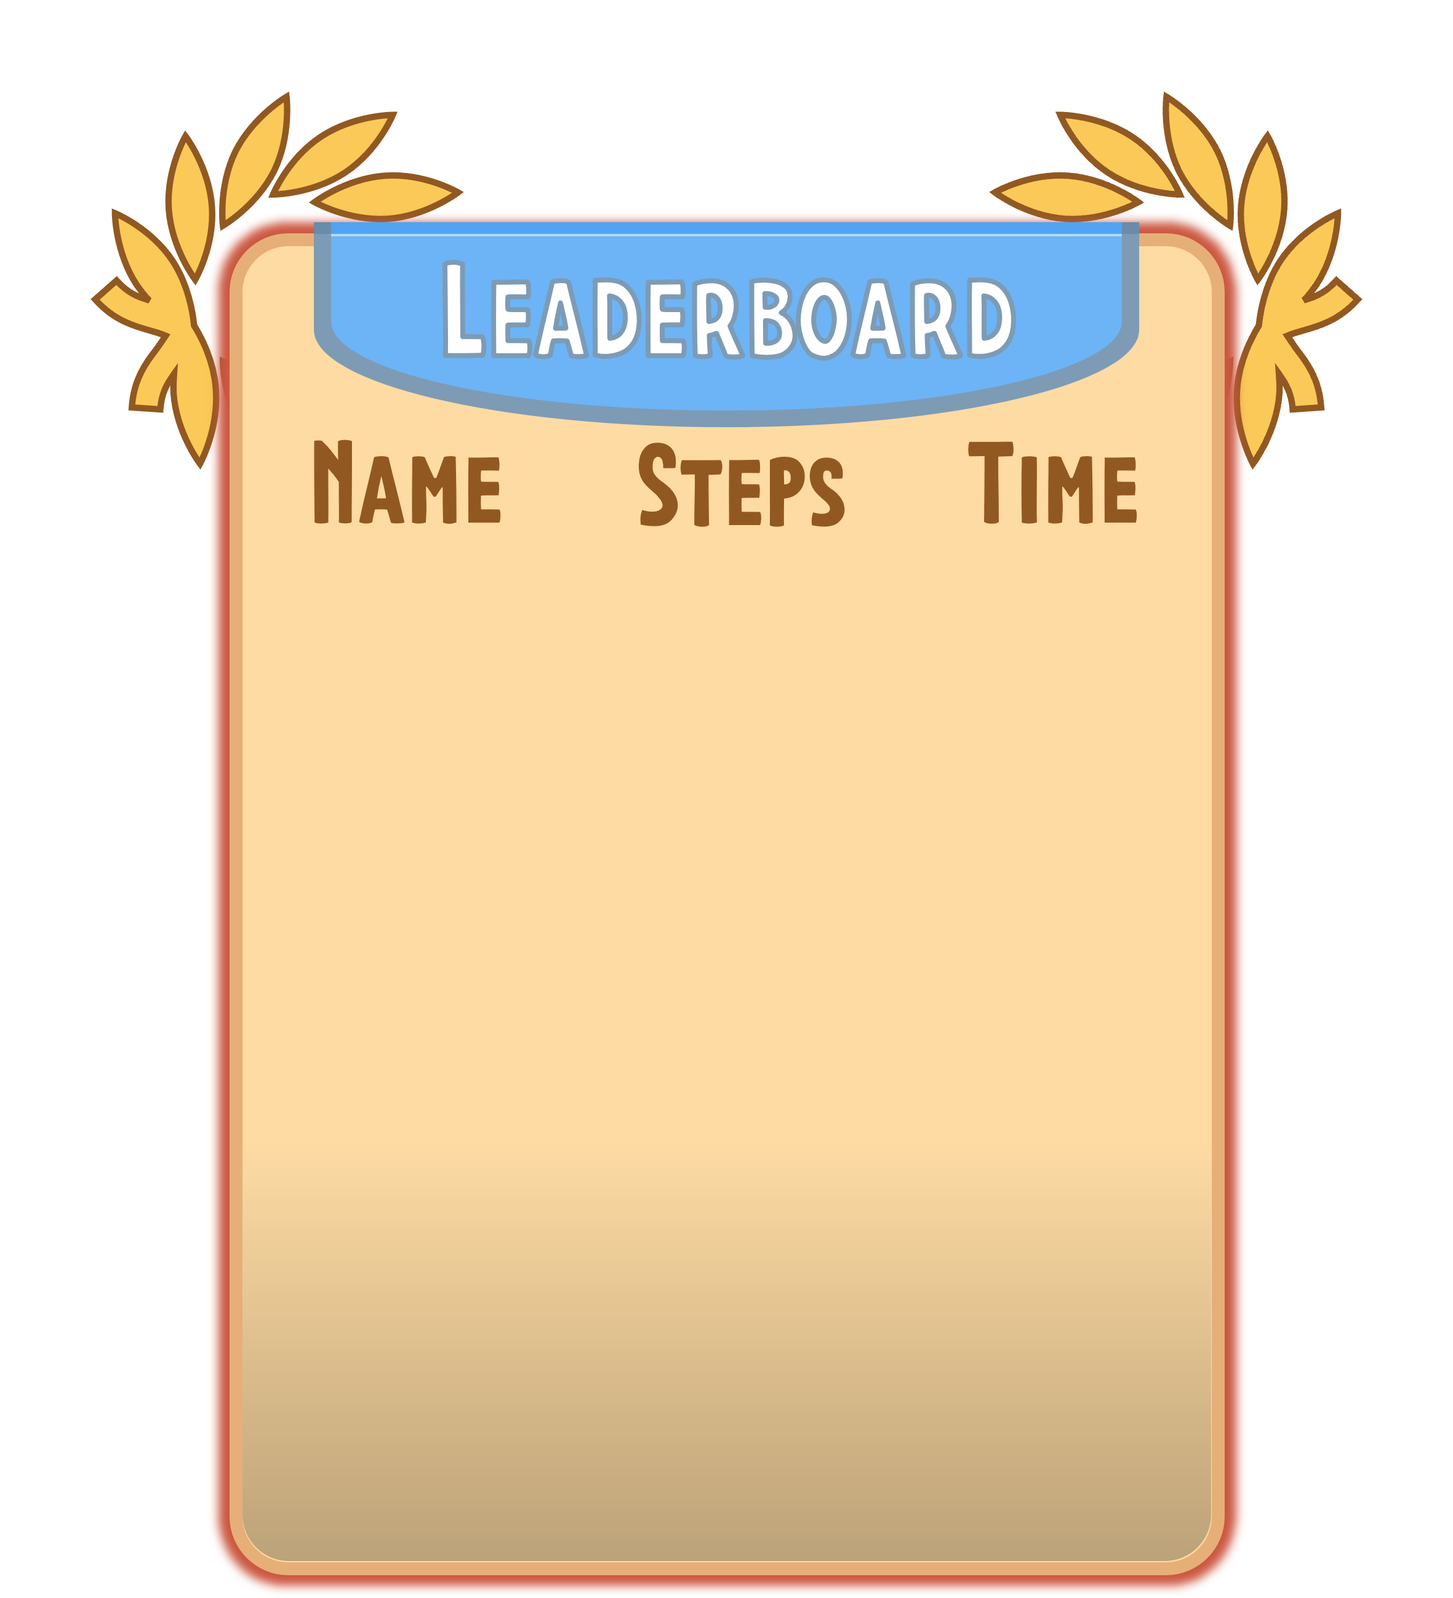
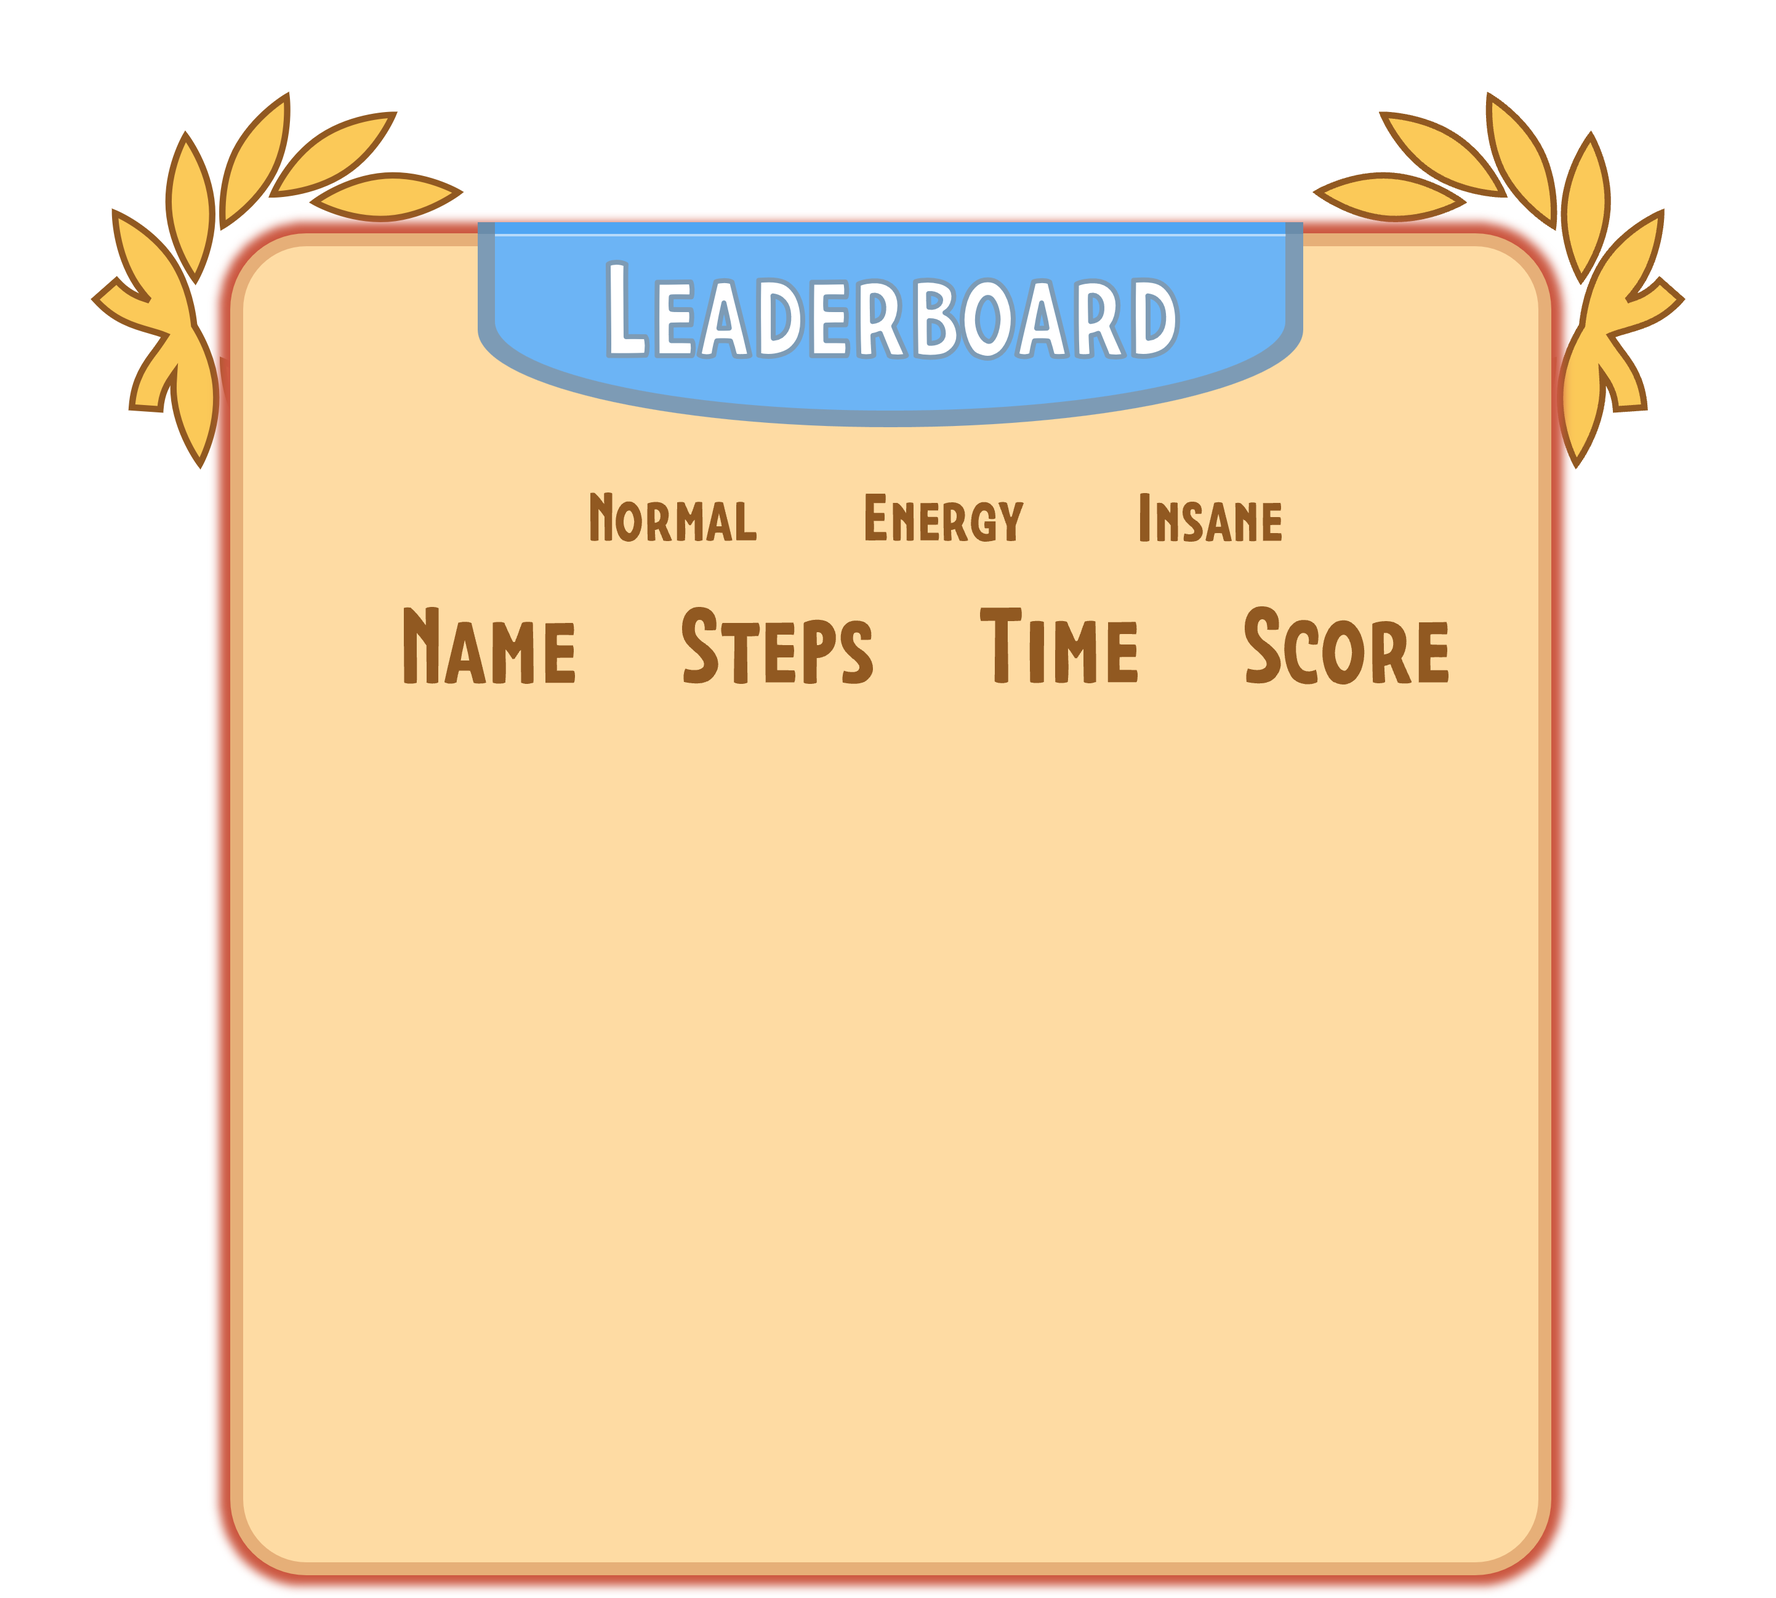
feat: leaderboard base on mode, rank

diff --git a/visualize.py b/visualize.py
@@ -42,7 +42,8 @@ class GameScreen:
         self.full_save = False
         self.difficulty = ""
         self.login_signin_state = "log in"
-        self.leaderboard_state = "easy"
+        self.leaderboard_difficulty = "easy"
+        self.leaderboard_mode = "normal"
         self.new_game_state = "choose difficulty"
         self.spawning = ""
         self.energy_mode = False
@@ -118,6 +119,9 @@ class GameScreen:
         leaderboard_easy_img = create_img(self.image_source, "leaderboard_easy")
         leaderboard_medium_img = create_img(self.image_source, "leaderboard_medium")
         leaderboard_hard_img = create_img(self.image_source, "leaderboard_hard")
+        trophy_gold_img = create_img(self.image_source, 'trophy_gold')
+        trophy_silver_img = create_img(self.image_source, 'trophy_silver')
+        trophy_bronze_img = create_img(self.image_source, 'trophy_bronze')
 
         """ NEW GAME """
         button_yes_img = create_img(self.image_source, "button_yes")
@@ -395,28 +399,33 @@ class GameScreen:
         )
         leaderbboard_width = self.leaderboard.modified_width
         leaderbboard_height = self.leaderboard.modified_height
+        leaderbboard_x_coord = self.leaderboard.x_coord
+        leaderbboard_y_coord = self.leaderboard.y_coord
         self.leaderboard_easy = graphic.Graphic(
-            HALF_SCREEN_WIDTH + leaderbboard_width * 0.367,
+            HALF_SCREEN_WIDTH + leaderbboard_width * 0.39,
             HALF_SCREEN_HEIGHT - leaderbboard_height * 0.12,
             leaderboard_easy_img,
             0.3,
         )
         self.leaderboard_medium = graphic.Graphic(
-            HALF_SCREEN_WIDTH + leaderbboard_width * 0.367,
+            HALF_SCREEN_WIDTH + leaderbboard_width * 0.39,
             HALF_SCREEN_HEIGHT + leaderbboard_height * 0.1,
             leaderboard_medium_img,
             0.3,
         )
         self.leaderboard_hard = graphic.Graphic(
-            HALF_SCREEN_WIDTH + leaderbboard_width * 0.367,
+            HALF_SCREEN_WIDTH + leaderbboard_width * 0.39,
             HALF_SCREEN_HEIGHT + leaderbboard_height * 0.32,
             leaderboard_hard_img,
             0.3,
         )
+        self.trophy_gold = graphic.Graphic(self.leaderboard.x_coord - self.leaderboard.modified_width * 0.32, self.leaderboard.y_coord - self.leaderboard.modified_height * 0.025 + self.background_leaderboard.modified_height * 0.07 * 0, trophy_gold_img, 0.3)
+        self.trophy_silver = graphic.Graphic(self.leaderboard.x_coord - self.leaderboard.modified_width * 0.32, self.leaderboard.y_coord - self.leaderboard.modified_height * 0.025 + self.background_leaderboard.modified_height * 0.07 * 1, trophy_silver_img, 0.3)
+        self.trophy_bronze = graphic.Graphic(self.leaderboard.x_coord - self.leaderboard.modified_width * 0.32, self.leaderboard.y_coord - self.leaderboard.modified_height * 0.025+ self.background_leaderboard.modified_height * 0.07 * 2, trophy_bronze_img, 0.3)
 
         # create buttons
         self.button_leaderboard_easy = button.Button(
-            HALF_SCREEN_WIDTH + leaderbboard_width * 0.367,
+            HALF_SCREEN_WIDTH + leaderbboard_width * 0.39,
             HALF_SCREEN_HEIGHT - leaderbboard_height * 0.12,
             button_leaderboard_easy_img,
             self.click_sound_source,
@@ -424,7 +433,7 @@ class GameScreen:
             0.31,
         )
         self.button_leaderboard_medium = button.Button(
-            HALF_SCREEN_WIDTH + leaderbboard_width * 0.367,
+            HALF_SCREEN_WIDTH + leaderbboard_width * 0.39,
             HALF_SCREEN_HEIGHT + leaderbboard_height * 0.1,
             button_leaderboard_medium_img,
             self.click_sound_source,
@@ -432,13 +441,23 @@ class GameScreen:
             0.31,
         )
         self.button_leaderboard_hard = button.Button(
-            HALF_SCREEN_WIDTH + leaderbboard_width * 0.367,
+            HALF_SCREEN_WIDTH + leaderbboard_width * 0.39,
             HALF_SCREEN_HEIGHT + leaderbboard_height * 0.32,
             button_leaderboard_hard_img,
             self.click_sound_source,
             0.3,
             0.31,
         )
+        self.button_uncheck_normal = button.Button(
+            leaderbboard_x_coord - leaderbboard_width * 0.2, 
+            leaderbboard_y_coord - leaderbboard_height * 0.173, 
+            button_uncheck_img, self.click_sound_source, 0.3, 0.3
+            )
+        self.button_uncheck_energy = button.Button(leaderbboard_x_coord - leaderbboard_width * 0.043, leaderbboard_y_coord - leaderbboard_height * 0.173, button_uncheck_img, self.click_sound_source, 0.3, 0.3)
+        self.button_uncheck_insane = button.Button(leaderbboard_x_coord + leaderbboard_width * 0.115, leaderbboard_y_coord - leaderbboard_height * 0.173, button_uncheck_img, self.click_sound_source, 0.3, 0.3)
+        self.button_check_normal = button.Button(leaderbboard_x_coord - leaderbboard_width * 0.2, leaderbboard_y_coord - leaderbboard_height * 0.173, button_check_img, self.click_sound_source, 0.3, 0.3)
+        self.button_check_energy = button.Button(leaderbboard_x_coord - leaderbboard_width * 0.043, leaderbboard_y_coord - leaderbboard_height * 0.173, button_check_img, self.click_sound_source, 0.3, 0.3)
+        self.button_check_insane = button.Button(leaderbboard_x_coord + leaderbboard_width * 0.115, leaderbboard_y_coord - leaderbboard_height * 0.173, button_check_img, self.click_sound_source, 0.3, 0.3)
 
         """ NEW GAME"""
         # create graphic
@@ -856,164 +875,101 @@ class GameScreen:
             self.username_signin_textbox.text = ""
             self.password_login_textbox.text = ""
             self.password_signin_textbox.text = ""
-
+    
     def draw_leaderboard(self, event):
         pos = pygame.mouse.get_pos()
 
         self.background_leaderboard.draw(self.screen)
-        if self.leaderboard_state == "easy":
+        
+        if self.leaderboard_difficulty == "easy":
             if self.button_leaderboard_medium.draw(self.screen, pos, event, self.sound):
-                self.leaderboard_state = "medium"
+                self.leaderboard_difficulty = "medium"
             if self.button_leaderboard_hard.draw(self.screen, pos, event, self.sound):
-                self.leaderboard_state = "hard"
+                self.leaderboard_difficulty = "hard"
             self.leaderboard.draw(self.screen)
             self.leaderboard_easy.draw(self.screen)
-            records = data.leaderboard(mode="EASY")
-            for i in range(min(len(records), DISPLAY.RECORD_LIMIT)):
-                username = self.font.render(records[i][0], True, COLOR.BLACK)
-                time = self.font.render(records[i][1], True, COLOR.BLACK)
-                steps = self.font.render(str(records[i][2]), True, COLOR.BLACK)
-                self.screen.blit(
-                    username,
-                    (
-                        (
-                            self.leaderboard.x_coord
-                            - username.get_rect().width * 0.5
-                            - self.leaderboard.modified_width * 0.22,
-                            self.leaderboard.y_coord
-                            - self.leaderboard.modified_height * 0.13
-                            + self.background_leaderboard.modified_height * 0.07 * i,
-                        )
-                    ),
-                )
-                self.screen.blit(
-                    steps,
-                    (
-                        (
-                            self.leaderboard.x_coord
-                            + self.leaderboard.modified_width * 0.01,
-                            self.leaderboard.y_coord
-                            - self.leaderboard.modified_height * 0.13
-                            + self.background_leaderboard.modified_height * 0.07 * i,
-                        )
-                    ),
-                )
-                self.screen.blit(
-                    time,
-                    (
-                        (
-                            self.leaderboard.x_coord
-                            + self.leaderboard.modified_width * 0.2,
-                            self.leaderboard.y_coord
-                            - self.leaderboard.modified_height * 0.13
-                            + self.background_leaderboard.modified_height * 0.07 * i,
-                        )
-                    ),
-                )
-
-        if self.leaderboard_state == "medium":
+        if self.leaderboard_difficulty == "medium":
             if self.button_leaderboard_easy.draw(self.screen, pos, event, self.sound):
-                self.leaderboard_state = "easy"
+                self.leaderboard_difficulty = "easy"
             if self.button_leaderboard_hard.draw(self.screen, pos, event, self.sound):
-                self.leaderboard_state = "hard"
+                self.leaderboard_difficulty = "hard"
             self.leaderboard.draw(self.screen)
             self.leaderboard_medium.draw(self.screen)
-            records = data.leaderboard(mode="MEDIUM")
-            for i in range(min(len(records), DISPLAY.RECORD_LIMIT)):
-                username = self.font.render(records[i][0], True, COLOR.BLACK)
-                time = self.font.render(records[i][1], True, COLOR.BLACK)
-                steps = self.font.render(str(records[i][2]), True, COLOR.BLACK)
-                self.screen.blit(
-                    username,
-                    (
-                        (
-                            self.leaderboard.x_coord
-                            - username.get_rect().width * 0.5
-                            - self.leaderboard.modified_width * 0.22,
-                            self.leaderboard.y_coord
-                            - self.leaderboard.modified_height * 0.13
-                            + self.background_leaderboard.modified_height * 0.07 * i,
-                        )
-                    ),
-                )
-                self.screen.blit(
-                    steps,
-                    (
-                        (
-                            self.leaderboard.x_coord
-                            + self.leaderboard.modified_width * 0.01,
-                            self.leaderboard.y_coord
-                            - self.leaderboard.modified_height * 0.13
-                            + self.background_leaderboard.modified_height * 0.07 * i,
-                        )
-                    ),
-                )
-                self.screen.blit(
-                    time,
-                    (
-                        (
-                            self.leaderboard.x_coord
-                            + self.leaderboard.modified_width * 0.2,
-                            self.leaderboard.y_coord
-                            - self.leaderboard.modified_height * 0.13
-                            + self.background_leaderboard.modified_height * 0.07 * i,
-                        )
-                    ),
-                )
-
-        if self.leaderboard_state == "hard":
+        if self.leaderboard_difficulty == "hard":
             if self.button_leaderboard_easy.draw(self.screen, pos, event, self.sound):
-                self.leaderboard_state = "easy"
+                self.leaderboard_difficulty = "easy"
             if self.button_leaderboard_medium.draw(self.screen, pos, event, self.sound):
-                self.leaderboard_state = "medium"
+                self.leaderboard_difficulty = "medium"
             self.leaderboard.draw(self.screen)
             self.leaderboard_hard.draw(self.screen)
-            records = data.leaderboard(mode="HARD")
-            for i in range(min(len(records), DISPLAY.RECORD_LIMIT)):
-                username = self.font.render(records[i][0], True, COLOR.BLACK)
-                time = self.font.render(records[i][1], True, COLOR.BLACK)
-                steps = self.font.render(str(records[i][2]), True, COLOR.BLACK)
-                self.screen.blit(
-                    username,
+                   
+        if self.leaderboard_mode == "normal":
+            self.button_check_normal.draw(self.screen, pos, event, self.sound)
+            if self.button_uncheck_energy.draw(self.screen, pos, event, self.sound):
+                self.leaderboard_mode = "energy"
+            if self.button_uncheck_insane.draw(self.screen, pos, event, self.sound):
+                self.leaderboard_mode = "insane"
+        if self.leaderboard_mode == "energy":
+            self.button_check_energy.draw(self.screen, pos, event, self.sound)
+            if self.button_uncheck_normal.draw(self.screen, pos, event, self.sound):
+                self.leaderboard_mode = "normal"
+            if self.button_uncheck_insane.draw(self.screen, pos, event, self.sound):
+                self.leaderboard_mode = "insane"
+        if self.leaderboard_mode == "insane":
+            self.button_check_insane.draw(self.screen, pos, event, self.sound)
+            if self.button_uncheck_normal.draw(self.screen, pos, event, self.sound):
+                self.leaderboard_mode = "normal"
+            if self.button_uncheck_energy.draw(self.screen, pos, event, self.sound):
+                self.leaderboard_mode = "energy"
+        
+                
+        records = data.leaderboard(mode=self.leaderboard_difficulty.upper())
+        for i in range(min(len(records), DISPLAY.RECORD_LIMIT)):
+            username = self.font.render(records[i][0], True, COLOR.BLACK)
+            time = self.font.render(records[i][1], True, COLOR.BLACK)
+            steps = self.font.render(str(records[i][2]), True, COLOR.BLACK)
+            self.screen.blit(
+                username,
+                (
                     (
-                        (
-                            self.leaderboard.x_coord
-                            - username.get_rect().width * 0.5
-                            - self.leaderboard.modified_width * 0.22,
-                            self.leaderboard.y_coord
-                            - self.leaderboard.modified_height * 0.13
-                            + self.background_leaderboard.modified_height * 0.07 * i,
-                        )
-                    ),
-                )
-                self.screen.blit(
-                    steps,
+                        self.leaderboard.x_coord - username.get_rect().width * 0.5 - self.leaderboard.modified_width * 0.22,
+                        self.leaderboard.y_coord - self.leaderboard.modified_height * 0.05 + self.background_leaderboard.modified_height * 0.07 * i,
+                    )
+                ),
+            )
+            self.screen.blit(
+                steps,
+                (
                     (
-                        (
-                            self.leaderboard.x_coord
-                            + self.leaderboard.modified_width * 0.01,
-                            self.leaderboard.y_coord
-                            - self.leaderboard.modified_height * 0.13
-                            + self.background_leaderboard.modified_height * 0.07 * i,
-                        )
-                    ),
-                )
-                self.screen.blit(
-                    time,
+                        self.leaderboard.x_coord - self.leaderboard.modified_width * 0.04 - steps.get_rect().width,
+                        self.leaderboard.y_coord - self.leaderboard.modified_height * 0.05 + self.background_leaderboard.modified_height * 0.07 * i,
+                    )
+                ),
+            )
+            self.screen.blit(
+                time,
+                (
                     (
-                        (
-                            self.leaderboard.x_coord
-                            + self.leaderboard.modified_width * 0.2,
-                            self.leaderboard.y_coord
-                            - self.leaderboard.modified_height * 0.13
-                            + self.background_leaderboard.modified_height * 0.07 * i,
-                        )
-                    ),
-                )
-
+                        self.leaderboard.x_coord
+                        + self.leaderboard.modified_width * 0.2,
+                        self.leaderboard.y_coord
+                        - self.leaderboard.modified_height * 0.05
+                        + self.background_leaderboard.modified_height * 0.07 * i,
+                    )
+                ),
+            )
+        ranks = len(records)
+        if ranks > 0:
+            self.trophy_gold.draw(self.screen)
+        if ranks > 1:
+            self.trophy_silver.draw(self.screen)
+        if ranks > 2:
+            self.trophy_bronze.draw(self.screen)
+        
         if self.button_back.draw(self.screen, pos, event, self.sound):
             self.game_state = "main menu"
-            self.leaderboard_state = "easy"
+            self.leaderboard_difficulty = "easy"
+            self.leaderboard_mode = "normal"
 
     def draw_new_game(self, event):
         pos = pygame.mouse.get_pos()
@@ -1147,29 +1103,6 @@ class GameScreen:
         pos = pygame.mouse.get_pos()
 
         self.background_load_game.draw(self.screen)
-        # if self.load_game_state == "easy":
-        #     self.easy_snapshot_1.draw(self.screen)
-        #     self.saveslot_easy_1.manage_save(self.screen, pos, event)
-        #     self.saveslot_easy_2.manage_save(self.screen, pos, event)
-        #     if self.button_easy_load_game.draw(self.screen, pos, event, self.sound):
-        #         self.load_game_state = "medium"
-        # if self.load_game_state == "medium":
-        #     self.saveslot_medium_1.manage_save(self.screen, pos, event)
-        #     self.saveslot_medium_2.manage_save(self.screen, pos, event)
-        #     if self.button_medium_load_game.draw(self.screen, pos, event, self.sound):
-        #         self.load_game_state = "hard"
-        # if self.load_game_state == "hard":
-        #     self.saveslot_hard_1.manage_save(self.screen, pos, event)
-        #     self.saveslot_hard_2.manage_save(self.screen, pos, event)
-        #     if self.button_hard_load_game.draw(self.screen, pos, event, self.sound):
-        #         self.load_game_state = "easy"
-        # if self.button_back.draw(self.screen, pos, event, self.sound):
-        #     self.game_state = 'main menu'
-        #     self.music_player.play_music(self.game_state)
-        #     self.skip_login = False
-        
-        
-        # snapshots = [snapshot]
         
         if self.load_game_state == 'list':
             # for snapshot in snapshots:

diff --git a/CONSTANTS.py b/CONSTANTS.py
@@ -4,7 +4,7 @@ class DISPLAY:
     SCREEN_WIDTH = 1400
     SCREEN_HEIGHT = int(SCREEN_WIDTH * (9 / 16)) # 787
     TEXT_LENGTH = 10
-    RECORD_LIMIT = 8
+    RECORD_LIMIT = 7
     SAVE_LIMIT = 6
 
 class COLOR:
